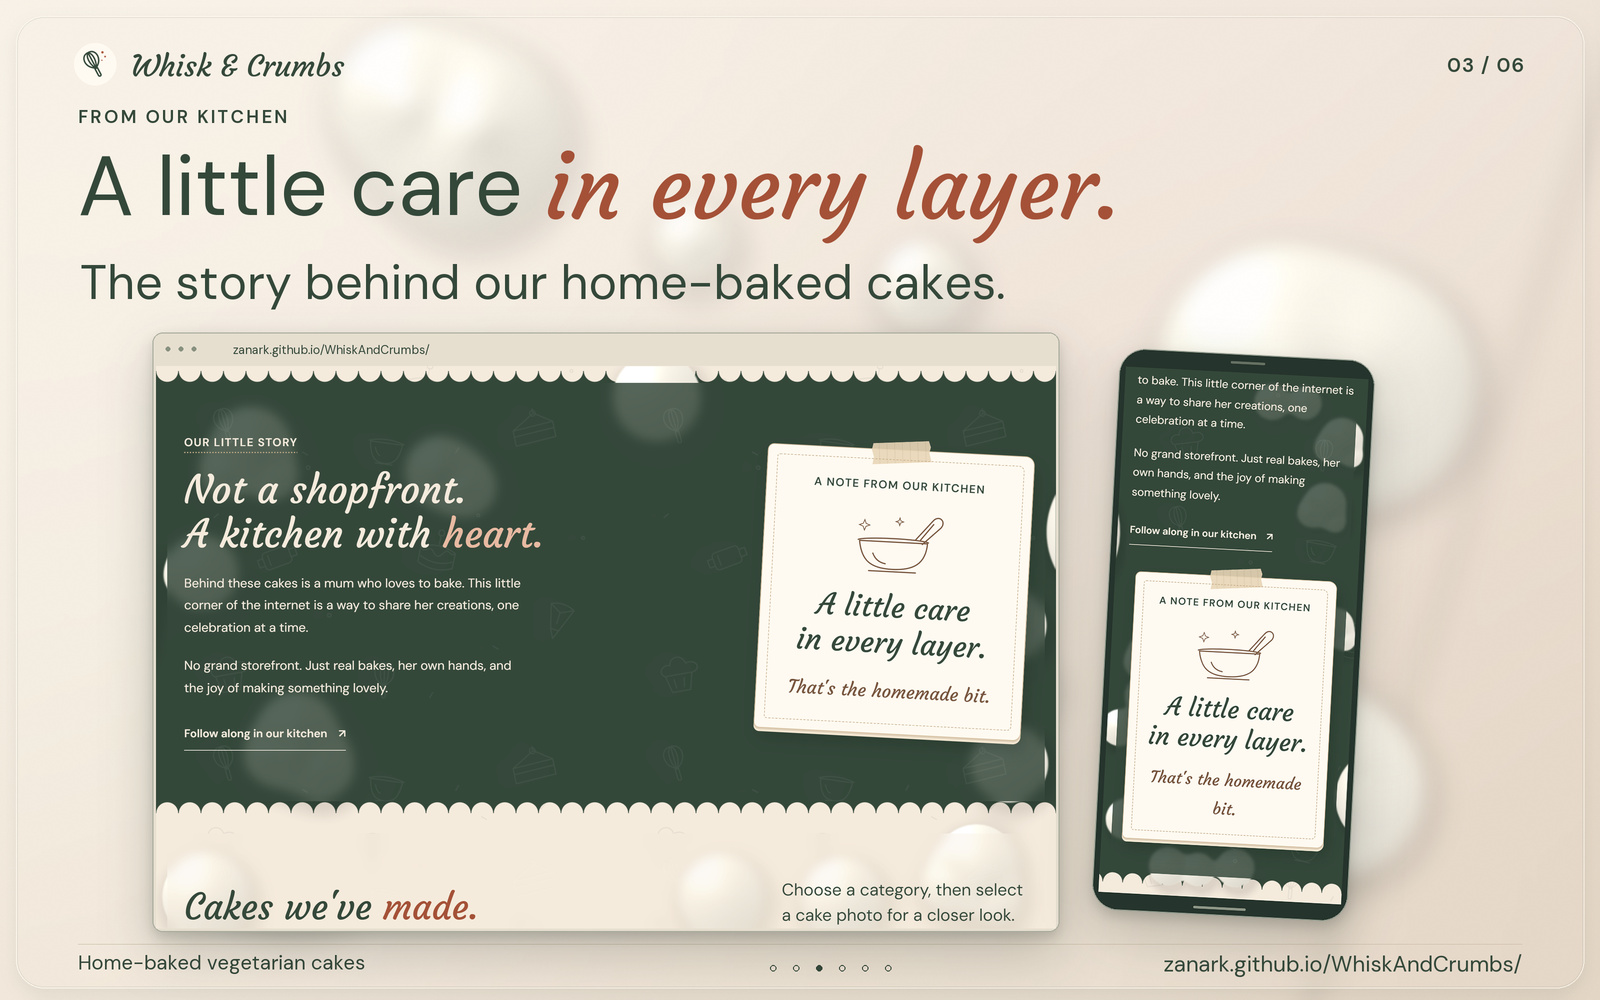
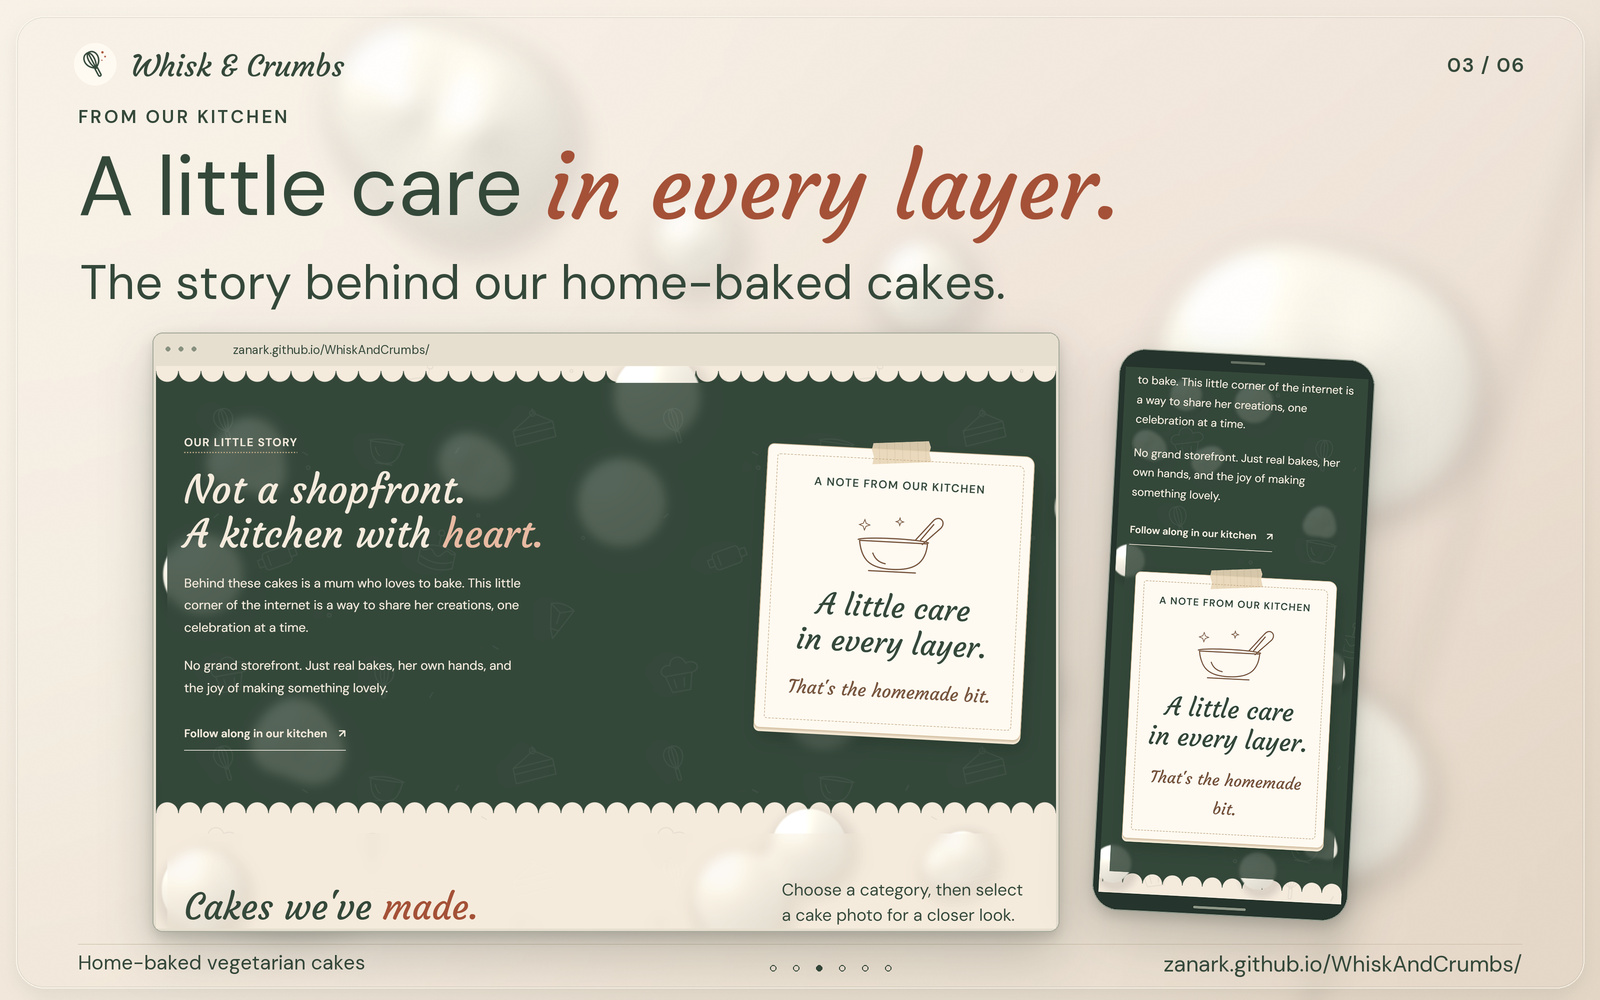
Publish smaller separating cream groups and varied half-size click blobs
Preserve individual droplets, cursor and trail while shrinking group pieces, keeping large groups at the edges, and retaining smooth contact and bounded click-spawn behavior.

Copilot-Session: 065222f9-e445-4b98-a549-e6948580c174

diff --git a/site/index.html b/site/index.html
@@ -22,33 +22,33 @@
   <link rel="icon" href="assets/favicon.svg" type="image/svg+xml" sizes="any">
   <link rel="apple-touch-icon" href="assets/apple-touch-icon.png" sizes="180x180">
   <link rel="preload" href="assets/fonts/courgette-regular.ttf" as="font" type="font/ttf" crossorigin>
-  <link rel="stylesheet" href="styles.css?v=a7f1fab52a19">
-  <link rel="stylesheet" href="entrance-shop.css?v=a7f1fab52a19">
-  <link rel="stylesheet" href="cozy-bakery.css?v=a7f1fab52a19">
-  <link rel="stylesheet" href="cream.css?v=a7f1fab52a19">
-  <link rel="stylesheet" href="readability.css?v=a7f1fab52a19">
-  <link rel="modulepreload" href="entrance.mjs?v=a7f1fab52a19">
-  <link rel="modulepreload" href="bell.mjs?v=a7f1fab52a19">
-  <link rel="modulepreload" href="notebooks.mjs?v=a7f1fab52a19">
-  <script type="module" src="main.mjs?v=a7f1fab52a19"></script>
+  <link rel="stylesheet" href="styles.css?v=051d5117f212">
+  <link rel="stylesheet" href="entrance-shop.css?v=051d5117f212">
+  <link rel="stylesheet" href="cozy-bakery.css?v=051d5117f212">
+  <link rel="stylesheet" href="cream.css?v=051d5117f212">
+  <link rel="stylesheet" href="readability.css?v=051d5117f212">
+  <link rel="modulepreload" href="entrance.mjs?v=051d5117f212">
+  <link rel="modulepreload" href="bell.mjs?v=051d5117f212">
+  <link rel="modulepreload" href="notebooks.mjs?v=051d5117f212">
+  <script type="module" src="main.mjs?v=051d5117f212"></script>
 </head>
 <body data-cream-effects="enabled">
   <a class="skip-link" href="#main">Skip to cakes and ordering</a>
   <div id="bakery-entrance" class="bakery-entrance" data-state="pending" data-audio="waiting">
     <div class="entrance-art" aria-hidden="true">
       <div class="entrance-backdrop"></div>
-      <div class="entrance-shop" style="--facade-plaster:url('assets/bakery-facade-plaster.webp?v=a7f1fab52a19');--sign-wood:url('assets/bakery-sign-wood.webp?v=a7f1fab52a19')">
+      <div class="entrance-shop" style="--facade-plaster:url('assets/bakery-facade-plaster.webp?v=051d5117f212');--sign-wood:url('assets/bakery-sign-wood.webp?v=051d5117f212')">
         <div class="entrance-masonry"></div>
         <picture class="entrance-upper-storey">
-          <source media="(max-width: 600px)" srcset="assets/bakery-facade-upper-mobile.svg?v=a7f1fab52a19">
-          <img src="assets/bakery-facade-upper.svg?v=a7f1fab52a19" width="1200" height="360" alt="" decoding="async">
+          <source media="(max-width: 600px)" srcset="assets/bakery-facade-upper-mobile.svg?v=051d5117f212">
+          <img src="assets/bakery-facade-upper.svg?v=051d5117f212" width="1200" height="360" alt="" decoding="async">
         </picture>
         <div class="entrance-sign" data-brand="Whisk &amp; Crumbs">
           <img class="entrance-sign-mark" src="assets/whisk-and-crumbs-mark.svg" width="128" height="128" alt="">
           <span class="entrance-sign-copy"><span class="entrance-wordmark">Whisk &amp; Crumbs</span><span class="entrance-descriptor">Home-baked vegetarian cakes</span></span>
         </div>
         <span class="entrance-cornice"></span>
-        <div class="entrance-awning"><img src="assets/bakery-awning.svg?v=a7f1fab52a19" width="1200" height="300" alt="" decoding="async"><span class="awning-supports" style="background-image:url('assets/bakery-awning-supports.svg?v=a7f1fab52a19')"></span></div>
+        <div class="entrance-awning"><img src="assets/bakery-awning.svg?v=051d5117f212" width="1200" height="300" alt="" decoding="async"><span class="awning-supports" style="background-image:url('assets/bakery-awning-supports.svg?v=051d5117f212')"></span></div>
         <span class="entrance-pier entrance-pier-left"></span><span class="entrance-pier entrance-pier-right"></span>
         <div class="entrance-doorway">
           <div class="entrance-bell-mount"></div>
@@ -62,9 +62,9 @@
           <div class="entrance-doorframe">
             <div class="entrance-room">
               <picture class="entrance-room-poster">
-                <source media="(max-aspect-ratio: 4/5)" srcset="assets/bakery-interior-portrait.webp?v=a7f1fab52a19">
-                <source media="(max-height: 600px)" srcset="assets/bakery-interior-short.webp?v=a7f1fab52a19">
-                <img src="assets/bakery-interior-wide.webp?v=a7f1fab52a19" width="1600" height="1000" alt="" decoding="async">
+                <source media="(max-aspect-ratio: 4/5)" srcset="assets/bakery-interior-portrait.webp?v=051d5117f212">
+                <source media="(max-height: 600px)" srcset="assets/bakery-interior-short.webp?v=051d5117f212">
+                <img src="assets/bakery-interior-wide.webp?v=051d5117f212" width="1600" height="1000" alt="" decoding="async">
               </picture>
             </div>
             <div class="entrance-fixed-bay entrance-fixed-bay-left"><span class="entrance-display-glass"></span><span class="entrance-bay-panel"></span></div>
@@ -94,7 +94,7 @@
         </div>
         <span class="entrance-threshold"></span>
         <span class="entrance-step"></span>
-        <img class="entrance-pavement" src="assets/bakery-facade-ground.svg?v=a7f1fab52a19" width="1200" height="140" alt="" decoding="async">
+        <img class="entrance-pavement" src="assets/bakery-facade-ground.svg?v=051d5117f212" width="1200" height="140" alt="" decoding="async">
       </div>
     </div>
     <a id="entrance-enter" class="entrance-enter" href="#home" aria-label="Open the bakery doors and enter">
@@ -108,7 +108,7 @@
   </div>
   <noscript><style>.bakery-entrance { display: none !important; }</style></noscript>
   <header class="site-header">
-    <div class="shop-sign" style="--sign-wood:url('assets/bakery-sign-wood.webp?v=a7f1fab52a19')">
+    <div class="shop-sign" style="--sign-wood:url('assets/bakery-sign-wood.webp?v=051d5117f212')">
       <div class="container header-inner">
         <a class="brand" href="#home" aria-label="Whisk &amp; Crumbs - home">
           <img src="assets/whisk-and-crumbs-mark.svg" width="128" height="128" alt="">
@@ -122,11 +122,11 @@
       </nav>
     </div>
   </header>
-  <div class="site-awning" aria-hidden="true"><img src="assets/bakery-awning.svg?v=a7f1fab52a19" width="1200" height="300" alt="" decoding="async"><span class="awning-supports" style="background-image:url('assets/bakery-awning-supports.svg?v=a7f1fab52a19')"></span></div>
+  <div class="site-awning" aria-hidden="true"><img src="assets/bakery-awning.svg?v=051d5117f212" width="1200" height="300" alt="" decoding="async"><span class="awning-supports" style="background-image:url('assets/bakery-awning-supports.svg?v=051d5117f212')"></span></div>
 
   <main id="main" tabindex="-1">
     <section class="hero-section" id="home" aria-labelledby="hero-title">
-      <span class="cream-glass" aria-hidden="true" style="--cream-etching-image:url('assets/bakery-glass-etching.svg?v=a7f1fab52a19')"><span class="cream-etching"></span></span>
+      <span class="cream-glass" aria-hidden="true" style="--cream-etching-image:url('assets/bakery-glass-etching.svg?v=051d5117f212')"><span class="cream-etching"></span></span>
       <div class="hero container">
         <div class="hero-copy">
           <h1 id="hero-title">Baked at home.<br>Made with <em>heart.</em></h1>
@@ -148,7 +148,7 @@
     </section>
 
     <section class="story-section" id="story" aria-labelledby="story-title">
-      <span class="cream-glass" aria-hidden="true" style="--cream-etching-image:url('assets/bakery-glass-etching.svg?v=a7f1fab52a19')"><span class="cream-etching"></span></span>
+      <span class="cream-glass" aria-hidden="true" style="--cream-etching-image:url('assets/bakery-glass-etching.svg?v=051d5117f212')"><span class="cream-etching"></span></span>
       <div class="container story-layout">
         <div class="story-copy">
           <p class="eyebrow">OUR LITTLE STORY</p>
@@ -171,7 +171,7 @@
     </section>
 
     <section class="cake-section container section-space" id="cakes" aria-labelledby="cakes-title">
-      <span class="cream-glass" aria-hidden="true" style="--cream-etching-image:url('assets/bakery-glass-etching.svg?v=a7f1fab52a19')"><span class="cream-etching"></span></span>
+      <span class="cream-glass" aria-hidden="true" style="--cream-etching-image:url('assets/bakery-glass-etching.svg?v=051d5117f212')"><span class="cream-etching"></span></span>
       <div class="section-heading">
         <h2 id="cakes-title">Cakes we've <em>made.</em></h2>
         <p>Choose a category, then select a cake photo for a closer look.</p>
@@ -2179,7 +2179,7 @@
     </section>
 
     <section class="order-section" id="order" aria-labelledby="order-title">
-      <span class="cream-glass" aria-hidden="true" style="--cream-etching-image:url('assets/bakery-glass-etching.svg?v=a7f1fab52a19')"><span class="cream-etching"></span></span>
+      <span class="cream-glass" aria-hidden="true" style="--cream-etching-image:url('assets/bakery-glass-etching.svg?v=051d5117f212')"><span class="cream-etching"></span></span>
       <div class="container order-layout">
         <div>
           <h2 id="order-title">How to <em>order.</em></h2>
@@ -2201,11 +2201,11 @@
         </div>
       </div>
     </section>
-    <div class="bakery-shelf" aria-hidden="true"><img src="assets/bakery-shelf.svg?v=a7f1fab52a19" width="960" height="120" alt="" loading="lazy" decoding="async"></div>
+    <div class="bakery-shelf" aria-hidden="true"><img src="assets/bakery-shelf.svg?v=051d5117f212" width="960" height="120" alt="" loading="lazy" decoding="async"></div>
   </main>
 
   <footer class="container site-footer">
-    <span class="cream-glass" aria-hidden="true" style="--cream-etching-image:url('assets/bakery-glass-etching.svg?v=a7f1fab52a19')"><span class="cream-etching"></span></span>
+    <span class="cream-glass" aria-hidden="true" style="--cream-etching-image:url('assets/bakery-glass-etching.svg?v=051d5117f212')"><span class="cream-etching"></span></span>
     <span>&copy; <span id="year">2026</span> Whisk &amp; Crumbs</span>
     <a href="#home">Back to top <span aria-hidden="true">&#8593;</span></a>
     <div id="cream-motion-control" hidden><button id="cream-motion-toggle" type="button" aria-pressed="false">Pause cream motion</button><span id="cream-motion-help" class="visually-hidden">Alt+Shift+P pauses or resumes background cream motion when available.</span></div>

diff --git a/README.md b/README.md
@@ -1,11 +1,11 @@
-[![Our little corner is now online: genuine bakery views with a lit projecting roof, shaded front valance and short rounded ends, on lightly frosted glass above unique cream clusters and droplets.](site/assets/showcase/01-welcome.jpg?v=54b3d4e75541)](https://zanark.github.io/WhiskAndCrumbs/)
+[![Our little corner is now online: genuine bakery views with a lit projecting roof, shaded front valance and short rounded ends, on lightly frosted glass above unique cream clusters and droplets.](site/assets/showcase/01-welcome.jpg?v=554caa013671)](https://zanark.github.io/WhiskAndCrumbs/)
 
 [![Come on in: genuine bakery entrance views with glowing whisk and heart neon emblems on the glass doors and a softly shaded striped awning, on lightly frosted glass above irregular cream clusters.](site/assets/showcase/02-bakery-entrance.jpg?v=e5f2ebaafe7c)](https://zanark.github.io/WhiskAndCrumbs/)
 
-[![A little care in every layer: genuine story and recipe-note views with sharp green lettering on lightly frosted glass, above distinct irregular cream clusters and small droplets.](site/assets/showcase/03-our-story.jpg?v=6c6bcc62342d)](https://zanark.github.io/WhiskAndCrumbs/#story)
+[![A little care in every layer: genuine story and recipe-note views with sharp green lettering on lightly frosted glass, above distinct irregular cream clusters and small droplets.](site/assets/showcase/03-our-story.jpg?v=b2bbd91be4b8)](https://zanark.github.io/WhiskAndCrumbs/#story)
 
-[![Find your kind of cake: genuine pink-notebook views and readable headings on a single lightly frosted panel, with a unique clustered cream arrangement visible behind the glass.](site/assets/showcase/04-cake-notebooks.jpg?v=068973df12d3)](https://zanark.github.io/WhiskAndCrumbs/#cakes)
+[![Find your kind of cake: genuine pink-notebook views and readable headings on a single lightly frosted panel, with a unique clustered cream arrangement visible behind the glass.](site/assets/showcase/04-cake-notebooks.jpg?v=4df4eb6b8122)](https://zanark.github.io/WhiskAndCrumbs/#cakes)
 
-[![Take a closer look: genuine four-photo catalogues with clickable cake images, centered names, Back to categories and both page-arrow tags attached on the right, on lightly frosted glass above irregular cream clusters.](site/assets/showcase/05-open-notebook.jpg?v=c79aa20c4b10)](https://zanark.github.io/WhiskAndCrumbs/#cakes)
+[![Take a closer look: genuine four-photo catalogues with clickable cake images, centered names, Back to categories and both page-arrow tags attached on the right, on lightly frosted glass above irregular cream clusters.](site/assets/showcase/05-open-notebook.jpg?v=b9fba3eea5f1)](https://zanark.github.io/WhiskAndCrumbs/#cakes)
 
-[![Your next cake starts with hello: genuine desktop and mobile ordering views and sharp green copy on lightly frosted glass, with a separately oriented cream-cluster and droplet background.](site/assets/showcase/06-simple-ordering.jpg?v=d8c070f7603a)](https://zanark.github.io/WhiskAndCrumbs/#order)
+[![Your next cake starts with hello: genuine desktop and mobile ordering views and sharp green copy on lightly frosted glass, with a separately oriented cream-cluster and droplet background.](site/assets/showcase/06-simple-ordering.jpg?v=2c9c12552317)](https://zanark.github.io/WhiskAndCrumbs/#order)

diff --git a/ABOUT.md b/ABOUT.md
@@ -173,10 +173,13 @@ The strawberry shape gently changes even at rest, becoming a soft oval or
 organic blob and stretching smoothly in the direction of movement.
 The longer trail and follower softly join nearby cream blobs and pull apart as
 you move away. This is a visual effect, not a physics simulation.
-Background groups and individual blobs are twice their earlier size, while the
-cursor head keeps its size. There are more groups, with the largest kept near
-the outer edges rather than across the reading column.
-Click or tap the page to leave a large strawberry blob. The newest eight stay;
+Grouped blobs have smaller pieces, with a further reduction for the largest
+groups. Their members gently pull apart and drift back together on independent,
+varied cycles.
+Individual background blobs and the cursor head keep their sizes.
+The largest groups remain near the outer edges rather than across the reading column.
+Click or tap the page to leave a smaller strawberry blob, with a different soft
+shape on each click. The newest eight stay;
 another click replaces the oldest, and reloading starts a fresh scene.
 Ordinary mouse clicks keep the follower visible. Navigation and photo controls
 still work normally, and touch scrolling does not leave accidental blobs.
